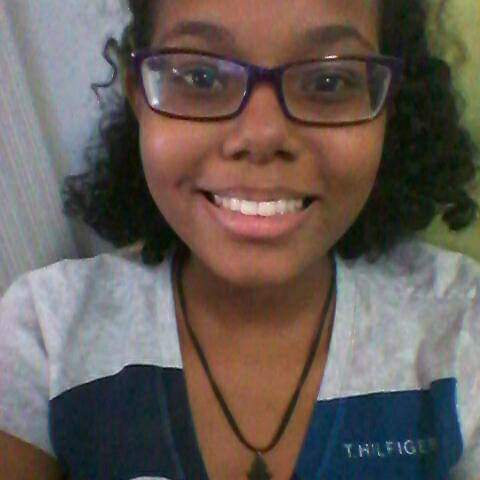
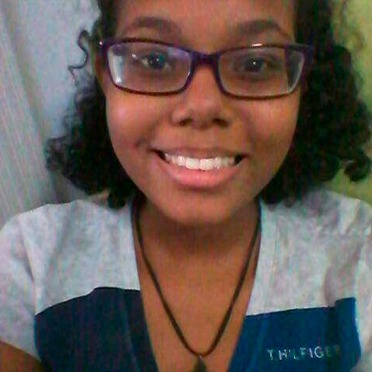
refactor: alterei as imagens para um tamanho padrão

diff --git a/FrontEnd/view/somos.html b/FrontEnd/view/somos.html
@@ -23,7 +23,7 @@
         <div class="row row-cols-1 row-cols-md-3 g-4">
             <div class="col">
                 <div class="card h-100">
-                    <img src="/FrontEnd/assets/img/barbara.jpeg" class="card-img-top" alt="...">
+                    <img src="../assets/img/barbara.jpeg" class="card-img-top" alt="...">
                     <div class="card-body">
                         <h5 class="card-title">Bárbara Luiza Cruz</h5>
                         <p class="card-text">Desenvolvedora Full Stack</p>
@@ -34,7 +34,7 @@
             </div>
             <div class="col">
                 <div class="card h-100">
-                    <img src="/FrontEnd/assets/img/cassia.jpeg" class="card-img-top" alt="...">
+                    <img src="../assets/img/cassia.jpeg" class="card-img-top" alt="...">
                     <div class="card-body">
                         <h5 class="card-title">Cassia Soares</h5>
                         <p class="card-text">UX Designer</p>
@@ -44,7 +44,7 @@
             </div>
             <div class="col">
                 <div class="card h-100">
-                    <img src="/FrontEnd/assets/img/marianac.jpeg" class="card-img-top" alt="...">
+                    <img src="../assets/img/marianac.jpeg" class="card-img-top" alt="...">
                     <div class="card-body">
                         <h5 class="card-title">Mariana Cristina Dias Dos Santos</h5>
                         <p class="card-text">Desenvolvedora Full Stack</p>
@@ -59,7 +59,7 @@
         <div class="row row-cols-1 row-cols-md-3 g-4">
             <div class="col">
                 <div class="card h-100">
-                    <img src="/FrontEnd/assets/img/marianam.jpeg" class="card-img-top" alt="...">
+                    <img src="../assets/img/marianam.jpeg" class="card-img-top" alt="...">
                     <div class="card-body">
                         <h5 class="card-title">Mariana Machado</h5>
                         <p class="card-text">Desenvolvedora Front-end</p>
@@ -70,7 +70,7 @@
             </div>
             <div class="col">
                 <div class="card h-100">
-                    <img src="/FrontEnd/assets/img/rita.jpeg" class="card-img-top" alt="...">
+                    <img src="../assets/img/rita.jpeg" class="card-img-top" alt="...">
                     <div class="card-body">
                         <h5 class="card-title">Rita de Cássia da Silva Marocco</h5>
                         <p class="card-text">Produto</p>
@@ -80,7 +80,7 @@
             </div>
             <div class="col">
                 <div class="card h-100">
-                    <img src="/FrontEnd/assets/img/sophia.jpeg" class="card-img-top" alt="...">
+                    <img src="../assets/img/sophia.jpeg" class="card-img-top" alt="...">
                     <div class="card-body">
                         <h5 class="card-title">Sophia Blazizza</h5>
                         <p class="card-text">Desenvolvedora Full Stack</p>

diff --git a/index.html b/index.html
@@ -6,7 +6,7 @@
       <meta name="viewport" content="width=device-width, initial-scale=1.0">
       <title>Home</title>
       <link href="https://cdn.jsdelivr.net/npm/bootstrap@5.1.3/dist/css/bootstrap.min.css" rel="stylesheet" integrity="sha384-1BmE4kWBq78iYhFldvKuhfTAU6auU8tT94WrHftjDbrCEXSU1oBoqyl2QvZ6jIW3" crossorigin="anonymous">
-      <link rel="stylesheet" type="text/css" href="/FrontEnd/css/style.css">
+      <link rel="stylesheet" type="text/css" href="FrontEnd/css/index.css">
    </head>
    <body>
       <header>

diff --git a/FrontEnd/css/somos.css b/FrontEnd/css/somos.css
@@ -43,6 +43,8 @@ a {
     color:white
 }
 
+
+
 .btn-outline-success{
     background-color: #FD628A;
     text-align: center;
